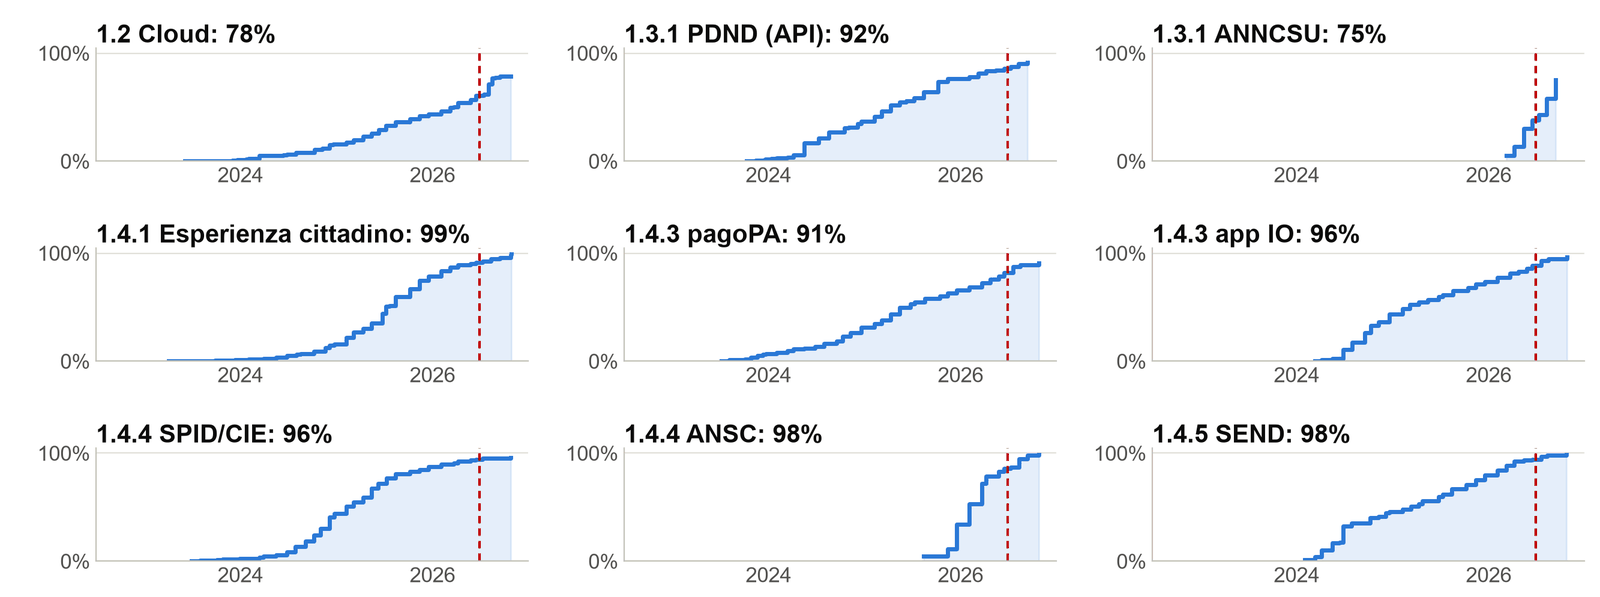
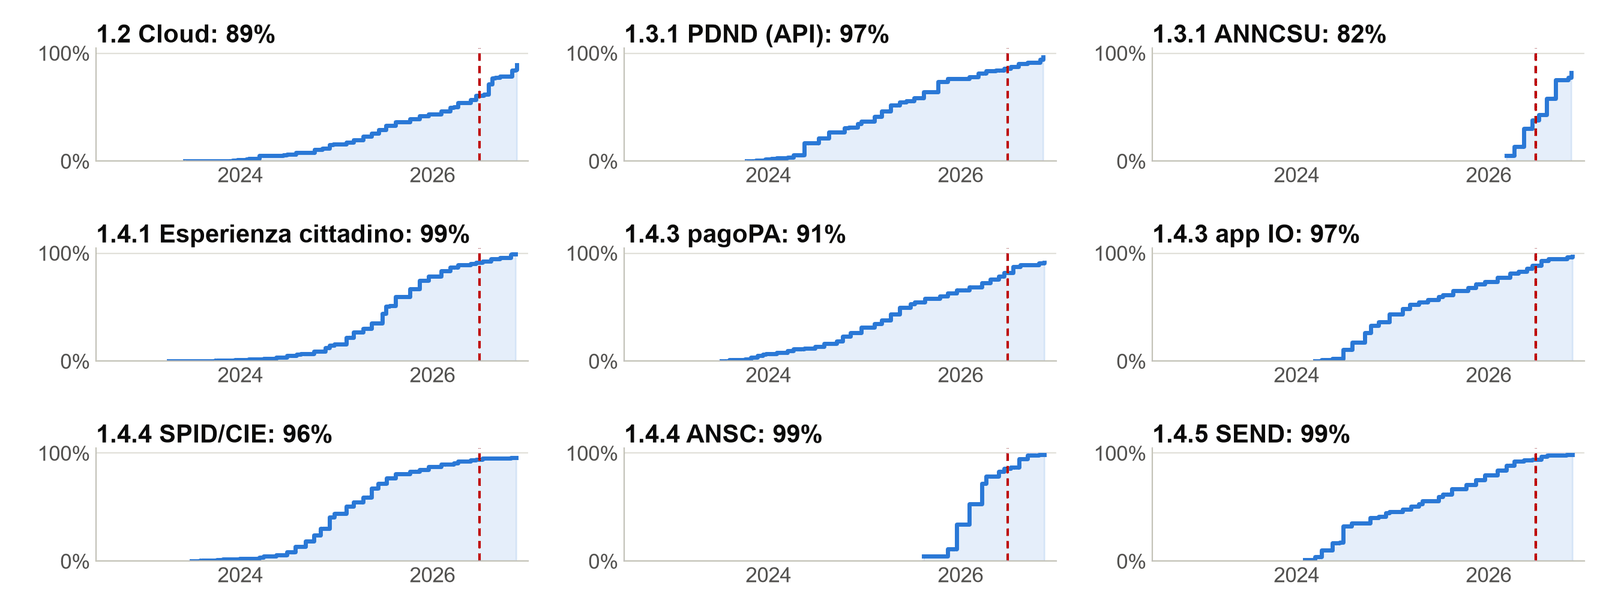
PA Digitale 2026: aggiorna dati e grafici al 17/11/2026 (IT/EN)

diff --git a/progetti/PADigitale2026/index-en.html b/progetti/PADigitale2026/index-en.html
@@ -52,7 +52,7 @@
 			<!-- INTESTAZIONE ARTICOLO -->
 			<div class="content-box post-head">
 				<h2>The PA Digitale 2026 measures: implementation, results, sustainability and impact</h2>
-				<p class="byline">Antonio Candiello · 31 October 2026</p>
+				<p class="byline">Antonio Candiello · 31 October 2026, updated 18 November 2026</p>
 				<ul class="keywords" aria-label="Keywords">
 					<li>PA digitale 2026</li><li>NRRP</li><li>municipalities</li><li>cloud</li><li>national platforms</li><li>ICT census</li><li>open data</li>
 				</ul>
@@ -64,7 +64,7 @@
 					<li><b>Sustainability</b>: <i>will public bodies be able to keep it running?</i></li>
 					<li><b>Impact</b>: <i>what will change for territories and citizens?</i></li>
 				</ul>
-				<p>Data on applications are updated to 29 October 2026.</p>
+				<p>Data on applications are updated to 17 November 2026.</p>
 				<nav class="toc" aria-label="Contents">
 					<h4>Contents</h4>
 					<ol>
@@ -152,10 +152,10 @@
 				<h2>2. Implementation</h2>
 				<p class="callout">Have the <b>resources</b> been committed and the <b>work</b> carried out?</p>
 				<h3>The overall picture</h3>
-				<p>Resources have been assigned and largely already paid out: <b>90%</b> of the amount. The grant is a lump sum paid after the result has been checked, so the amount paid out measures completed work, not just spending.</p>
+				<p>Resources have been assigned and largely already paid out: <b>94%</b> of the amount. The grant is a lump sum paid after the result has been checked, so the amount paid out measures completed work, not just spending.</p>
 				<ul class="stats">
 					<li><span class="big">74,639</span>projects funded, net of 18,855 withdrawals</li>
-					<li><span class="big">€2.59 bn</span>granted to public bodies, of which €2.32 bn paid out</li>
+					<li><span class="big">€2.59 bn</span>granted to public bodies, of which €2.44 bn paid out</li>
 					<li><span class="big">16,847</span>beneficiary bodies, of which 7,891 municipalities</li>
 					<li><span class="big">99.9%</span>of Italian municipalities have at least one active project</li>
 				</ul>
@@ -182,7 +182,7 @@
 					<img src="img/stato-en.png" alt="Share of projects paid out, assigned and withdrawn, by measure" loading="lazy" />
 				</figure>
 				<h3>The pace of payments</h3>
-				<p>The curves differ: ANSC and ANNCSU only start between late 2025 and 2026, while Cloud is at 78% of the amount.</p>
+				<p>The curves differ: ANSC and ANNCSU only start between late 2025 and 2026, while Cloud is at 89% of the amount.</p>
 				<figure>
 					<img src="img/ritmo-en.png" alt="Cumulative share of the amount paid out over time for each measure" loading="lazy" />
 					<figcaption>Cumulative percentage of the amount paid out over the net amount funded; dashed line: end of the NRRP.</figcaption>
@@ -208,46 +208,46 @@
 				<h2>3. Results</h2>
 				<p class="callout">Which <b>services</b>, <b>opportunities</b> and <b>benefits</b> have actually been delivered?</p>
 				<h3>What has been delivered</h3>
-				<p>Standardised digital services in <b>70,230 completed projects</b>, that is, projects whose grant was paid after the result was checked.</p>
+				<p>Standardised digital services in <b>71,460 completed projects</b>, that is, projects whose grant was paid after the result was checked.</p>
 				<div class="table-wrap"><table class="data">
 					<tr><th>Measure</th><th>Funded result</th><th>Completed projects</th><th>Paid out</th></tr>
-					<tr><td>1.2 Cloud</td><td>Services migrated to the cloud</td><td class="num">11,811</td><td class="num">€757.1 M</td></tr>
-					<tr><td>1.3.1 PDND</td><td>APIs published on PDND</td><td class="num">6,246</td><td class="num">€183.7 M</td></tr>
-					<tr><td>1.3.1 ANNCSU</td><td>Geo-referenced house numbers submitted</td><td class="num">4,199</td><td class="num">€30.2 M</td></tr>
-					<tr><td>1.4.1 Citizen experience</td><td>Websites and digital services of municipalities and schools</td><td class="num">13,687</td><td class="num">€787.8 M</td></tr>
-					<tr><td>1.4.3 pagoPA</td><td>157,590 payment collection services activated</td><td class="num">6,356</td><td class="num">€161.4 M</td></tr>
-					<tr><td>1.4.3 IO app</td><td>172,785 services activated on IO</td><td class="num">6,674</td><td class="num">€66.0 M</td></tr>
-					<tr><td>1.4.4 SPID/CIE</td><td>Access to online services with SPID and CIE</td><td class="num">6,911</td><td class="num">€96.8 M</td></tr>
-					<tr><td>1.4.4 ANSC</td><td>Digital civil registry in municipalities</td><td class="num">7,491</td><td class="num">€46.9 M</td></tr>
-					<tr><td>1.4.5 SEND</td><td>Digital notifications activated</td><td class="num">6,855</td><td class="num">€193.5 M</td></tr>
+					<tr><td>1.2 Cloud</td><td>Services migrated to the cloud</td><td class="num">12,548</td><td class="num">€859.8 M</td></tr>
+					<tr><td>1.3.1 PDND</td><td>APIs published on PDND</td><td class="num">6,272</td><td class="num">€193.8 M</td></tr>
+					<tr><td>1.3.1 ANNCSU</td><td>Geo-referenced house numbers submitted</td><td class="num">4,563</td><td class="num">€32.9 M</td></tr>
+					<tr><td>1.4.1 Citizen experience</td><td>Websites and digital services of municipalities and schools</td><td class="num">13,702</td><td class="num">€789.9 M</td></tr>
+					<tr><td>1.4.3 pagoPA</td><td>158,033 payment collection services activated</td><td class="num">6,368</td><td class="num">€162.3 M</td></tr>
+					<tr><td>1.4.3 IO app</td><td>173,238 services activated on IO</td><td class="num">6,690</td><td class="num">€66.4 M</td></tr>
+					<tr><td>1.4.4 SPID/CIE</td><td>Access to online services with SPID and CIE</td><td class="num">6,927</td><td class="num">€97.0 M</td></tr>
+					<tr><td>1.4.4 ANSC</td><td>Digital civil registry in municipalities</td><td class="num">7,512</td><td class="num">€47.1 M</td></tr>
+					<tr><td>1.4.5 SEND</td><td>Digital notifications activated</td><td class="num">6,878</td><td class="num">€194.3 M</td></tr>
 				</table></div>
 				<h3>From funding to use</h3>
 				<p>National data on use, which also include bodies that were not funded; for 1.2, 1.4.1 and 1.4.4 they count instead the bodies with a completed project. Sources other than open data are given in the note.</p>
 				<ul class="stats">
-					<li><span class="tag">1.2 Cloud</span><span class="big">11,700</span>bodies with services migrated to the cloud: 6,862 municipalities (87%) and 4,662 schools (57%); over <b>105,000</b> services migrated</li>
-					<li><span class="tag">1.3.1 PDND</span><span class="big">15,270</span>e-services published by 6,516 bodies, 11,648 by municipalities, out of 9,723 members; <b>52,565</b> active connections and 813 M requests in 2026</li>
-					<li><span class="tag">1.3.1 ANNCSU</span><span class="big">76%</span>house numbers with coordinates (data at 15/09/2026); 5,061 municipalities update them through the archive's APIs on PDND: over <b>23 M</b> calls</li>
-					<li><span class="tag">1.4.1 Citizen experience</span><span class="big">13,333</span>websites using the Designers Italia template: 6,536 municipalities (83%) and 6,797 schools (82%); <b>25,515</b> municipal digital services</li>
+					<li><span class="tag">1.2 Cloud</span><span class="big">12,433</span>bodies with services migrated to the cloud: 7,397 municipalities (94%) and 4,834 schools (59%); over <b>107,000</b> services migrated</li>
+					<li><span class="tag">1.3.1 PDND</span><span class="big">15,285</span>e-services published by 6,519 bodies, 11,651 by municipalities, out of 9,794 members; <b>54,833</b> active connections and 889 M requests in 2026</li>
+					<li><span class="tag">1.3.1 ANNCSU</span><span class="big">76%</span>house numbers with coordinates (data at 15/09/2026); 5,063 municipalities update them through the archive's APIs on PDND: over <b>23 M</b> calls</li>
+					<li><span class="tag">1.4.1 Citizen experience</span><span class="big">13,347</span>websites using the Designers Italia template: 6,551 municipalities (83%) and 6,796 schools (83%); <b>25,570</b> municipal digital services</li>
 					<li><span class="tag">1.4.3 pagoPA</span><span class="big">448.7 M</span>transactions in 2025</li>
-					<li><span class="tag">1.4.3 IO app</span><span class="big">98%</span>municipalities present on IO, with 244,074 services; <b>396 M</b> messages sent in 2025 (all bodies)</li>
-					<li><span class="tag">1.4.4 SPID/CIE</span><span class="big">6,907</span>bodies with SPID and CIE integrated: 5,722 municipalities (72%) and 1,185 other bodies; <b>1.22 billion</b> SPID logins in 2025</li>
-					<li><span class="tag">1.4.4 ANSC</span><span class="big">98.3%</span>municipalities with digital civil registry; over <b>700,000</b> digital records created (April 2026)</li>
-					<li><span class="tag">1.4.5 SEND</span><span class="big">19.5 M</span>notifications in 2025, 7,140 sending bodies</li>
+					<li><span class="tag">1.4.3 IO app</span><span class="big">98%</span>municipalities present on IO, with 244,112 services; <b>396 M</b> messages sent in 2025 (all bodies)</li>
+					<li><span class="tag">1.4.4 SPID/CIE</span><span class="big">6,922</span>bodies with SPID and CIE integrated: 5,736 municipalities (73%) and 1,186 other bodies; <b>1.22 billion</b> SPID logins in 2025</li>
+					<li><span class="tag">1.4.4 ANSC</span><span class="big">98.6%</span>municipalities with digital civil registry; over <b>700,000</b> digital records created (April 2026)</li>
+					<li><span class="tag">1.4.5 SEND</span><span class="big">19.5 M</span>notifications in 2025, 7,145 sending bodies</li>
 				</ul>
-				<p>For 1.2, 1.4.1 and 1.4.4 the figure does not measure use: it counts the bodies whose project was completed, that is, checked at certification. For 1.4.1 the website was checked against the Designers Italia template criteria; the digital services («active citizen» package) are derived from the amounts paid out using the price list in the calls' Annex 2: 6,303 municipalities activated at least one, most of them four. For 1.2 the migrated services are estimated the same way: 32,985 for schools and 72,236 for 6,669 municipalities; for the other 194 municipalities (2024–2025 calls) and for health authorities and other bodies the amount does not allow an estimate. For ANNCSU the calls are the PDND tokens issued for the Revenue Agency's «Aggiornamento coordinate» and «Aggiornamento accessi» e-services. For IO the messages are those of all bodies, not only municipalities. For ANSC there are no open data on records: the figure is reported by Agenda Digitale (9/4/2026). For PDND the data (Numeri PDND, 30/10/2026) cover all members: 6,516 bodies provide e-services and 8,545 use them; access requests are the tokens issued, January to October 2026. For 1.4.4 the call funds SPID and CIE together (€14,000 per municipality), so the projects do not distinguish the two credentials; use can be measured only for SPID, through the annual logins published by AgID (public and private services), while there is no overall public figure on CIE logins. Percentages of 7,896 municipalities (ISTAT) and 8,171 state schools (Indice PA, October 2026). The latest ISTAT figure on cloud use by local authorities is 54%, for 2022.</p>
+				<p>For 1.2, 1.4.1 and 1.4.4 the figure does not measure use: it counts the bodies whose project was completed, that is, checked at certification. For 1.4.1 the website was checked against the Designers Italia template criteria; the digital services («active citizen» package) are derived from the amounts paid out using the price list in the calls' Annex 2: 6,317 municipalities activated at least one, most of them four. For 1.2 the migrated services are estimated the same way: 34,428 for schools and 73,184 for 6,563 municipalities; for the other 834 municipalities (mostly 2024–2025 calls) and for health authorities and other bodies the amount does not allow an estimate. For ANNCSU the calls are the PDND tokens issued for the Revenue Agency's «Aggiornamento coordinate» and «Aggiornamento accessi» e-services. For IO the messages are those of all bodies, not only municipalities. For ANSC there are no open data on records: the figure is reported by Agenda Digitale (9/4/2026). For PDND the data (Numeri PDND, 17/11/2026) cover all members: 6,519 bodies provide e-services and 8,583 use them; access requests are the tokens issued, January to 17 November 2026. For 1.4.4 the call funds SPID and CIE together (€14,000 per municipality), so the projects do not distinguish the two credentials; use can be measured only for SPID, through the annual logins published by AgID (public and private services), while there is no overall public figure on CIE logins. Percentages of 7,896 municipalities (ISTAT) and 8,171 state schools (Indice PA, October 2026). The latest ISTAT figure on cloud use by local authorities is 54%, for 2022.</p>
 				<h3>Cloud: the starting point</h3>
-				<p>ISTAT 2022: <b>54%</b> of local authorities. With the NRRP, <b>87% of municipalities</b> have completed their cloud migration. The latest official figure on use is still the ISTAT 2022 one, before the effects of the NRRP projects; the 2026 ICT census will give the first post-NRRP picture.</p>
+				<p>ISTAT 2022: <b>54%</b> of local authorities. With the NRRP, <b>94% of municipalities</b> have completed their cloud migration. The latest official figure on use is still the ISTAT 2022 one, before the effects of the NRRP projects; the 2026 ICT census will give the first post-NRRP picture.</p>
 				<figure>
-					<img src="img/cloud-en.png" alt="Share of local authorities using cloud services from 2012 to 2022 (ISTAT), share of municipalities with NRRP 1.2 migration completed in October 2026, and gaps by macro area in 2022 (ISTAT) and October 2026 (municipalities with a completed 1.2 project)" loading="lazy" />
-					<figcaption>Sources: ISTAT, Local public administration and ICT – Year 2022 (23/02/2024); for October 2026, PA digitale 2026 open data (municipalities with a completed 1.2 project out of 7,896 ISTAT municipalities). The two measures are not comparable.</figcaption>
+					<img src="img/cloud-en.png" alt="Share of local authorities using cloud services from 2012 to 2022 (ISTAT), share of municipalities with NRRP 1.2 migration completed in November 2026, and gaps by macro area in 2022 (ISTAT) and November 2026 (municipalities with a completed 1.2 project)" loading="lazy" />
+					<figcaption>Sources: ISTAT, Local public administration and ICT – Year 2022 (23/02/2024); for November 2026, PA digitale 2026 open data (municipalities with a completed 1.2 project out of 7,896 ISTAT municipalities). The two measures are not comparable.</figcaption>
 				</figure>
 				<ul class="stats">
 					<li><span class="tag">Politecnico di Milano, AssoSoftware, 2023</span><span class="big">68%</span>municipal bodies with all back-office software in the cloud (a different measure from ISTAT)</li>
-					<li><span class="tag">PA digitale 2026, measure 1.2, October 2026</span><span class="big">87%</span>of municipalities and 57% of schools with cloud migration completed</li>
+					<li><span class="tag">PA digitale 2026, measure 1.2, November 2026</span><span class="big">94%</span>of municipalities and 59% of schools with cloud migration completed</li>
 				</ul>
 				<p>The three figures measure different things and cannot be compared. ISTAT counts local authorities using cloud services. The Politecnico counts municipalities with all back-office software in the cloud, but the press release does not state the base. The PA digitale 2026 figure counts municipalities and schools with a completed 1.2 project, that is, with at least one service migrated and checked at certification: it measures take-up of the NRRP, not use.</p>
 				<h3>PDND: members and data exchanges</h3>
-				<p><b>9,723 bodies</b> have joined, with about 84 million data exchange sessions per month.</p>
+				<p><b>9,794 bodies</b> have joined, with about 78 million data exchange sessions per month.</p>
 				<figure>
 					<img src="img/pdnd-en.png" alt="Bodies joined to PDND over time and data exchange sessions per month" loading="lazy" />
 					<figcaption>Source: Numeri PDND, CC0 open data. Includes bodies not funded by the measure.</figcaption>
@@ -268,7 +268,7 @@
 				<p><b>396.4 million</b> messages in 2025, with 98% of municipalities present on the app.</p>
 				<figure>
 					<img src="img/appio-en.png" alt="Messages sent by IO services per month and total per year" loading="lazy" />
-					<figcaption>* 2026 up to October. Source: PagoPA S.p.A., CC0 open data.</figcaption>
+					<figcaption>* 2026 up to 17 November 2026. Source: PagoPA S.p.A., CC0 open data.</figcaption>
 				</figure>
 				<h3>SEND: notifications</h3>
 				<p>Notifications are growing, but in 2026 <b>72%</b> are still sent on paper.</p>
@@ -283,7 +283,7 @@
 					<figcaption>Sources: AgID, SPID page (annual logins to all services, public and private); ANPR open data (accessi_export) for the two charts on ANPR logins.</figcaption>
 				</figure>
 				<h3>ANSC: the digital civil registry</h3>
-				<p><b>98.3%</b> of municipalities have joined, mostly between 2025 and early 2026.</p>
+				<p><b>98.6%</b> of municipalities have joined, mostly between 2025 and early 2026.</p>
 				<figure>
 					<img src="img/ansc-en.png" alt="Cumulative number of municipalities joined to ANSC since 2024" loading="lazy" />
 					<figcaption>Source: ANPR open data (adesioni_ansc_export).</figcaption>
@@ -346,7 +346,7 @@
 				<p>A positive sign, but not attributable to the funded projects alone: the data are national. SPID still exceeds a billion logins a year, but in the first nine months of 2026 it fell by 10% on the same period of 2025, while CIE logins are growing: 265.8 million «Entra con CIE» logins by the end of September 2026.</p>
 				<figure>
 					<img src="img/crescita-uso-en.png" alt="Yearly totals 2024-2026 of pagoPA transactions, IO messages, SEND notifications, PDND requests and SPID logins; for 2026 also CIE logins" loading="lazy" />
-					<figcaption>* 2026 partial year: up to October for pagoPA, IO, SEND and PDND; January–September for SPID; CIE: «Entra con CIE» logins by the end of September (no public total exists for 2024 and 2025). Sources: PagoPA S.p.A., CC0 open data and Numeri PDND (access requests); SPID: AgID (2024–2025); 2026 SPID and CIE: <a href="https://www.osservatori.net/comunicato/digital-identity/eudi-wallet-italia-europa/">Digital Identity &amp; Wallet Observatory, Politecnico di Milano</a> (5/11/2026).</figcaption>
+					<figcaption>* 2026 partial year: up to 17 November 2026 for pagoPA, IO, SEND and PDND; January–September for SPID; CIE: «Entra con CIE» logins by the end of September (no public total exists for 2024 and 2025). Sources: PagoPA S.p.A., CC0 open data and Numeri PDND (access requests); SPID: AgID (2024–2025); 2026 SPID and CIE: <a href="https://www.osservatori.net/comunicato/digital-identity/eudi-wallet-italia-europa/">Digital Identity &amp; Wallet Observatory, Politecnico di Milano</a> (5/11/2026).</figcaption>
 				</figure>
 				<h3>Territories: widespread take-up</h3>
 				<p>The <b>South</b> often takes part more than the North: a good sign, but taking part does not mean use. In 2022 ISTAT reported cloud use by 49.4% of local authorities in the South and Islands and 74.0% in the North-East.</p>
@@ -372,9 +372,9 @@
 				<a id="riferimenti"></a>
 				<h2>6. References and notes</h2>
 				<p>All data come from open, publicly available sources (mostly in Italian). Data extraction, processing and presentation were supported by artificial intelligence tools. Usage indicators are national or aggregate and also include bodies that were not funded.</p>
-				<h3>Open data (downloaded on 30–31 October 2026)</h3>
+				<h3>Open data (downloaded on 18 November 2026)</h3>
 				<ul class="refs">
-					<li><a href="https://github.com/teamdigitale/padigitale2026-opendata">PA digitale 2026, calls and funded applications</a> (at 29/10/2026): implementation, results, small municipalities, territories.</li>
+					<li><a href="https://github.com/teamdigitale/padigitale2026-opendata">PA digitale 2026, calls and funded applications</a> (at 17/11/2026): implementation, results, small municipalities, territories.</li>
 					<li><a href="https://github.com/italia/pdnd-opendata">Numeri PDND</a> (PagoPA S.p.A.): members and exchange sessions.</li>
 					<li><a href="https://github.com/pagopa/pdnd-dl-open-data">PagoPA S.p.A. open data</a>: pagoPA, IO app, SEND.</li>
 					<li><a href="https://github.com/italia/anpr-opendata">ANPR open data</a> (Ministry of the Interior): ANSC membership, logins by credential.</li>

diff --git a/progetti/PADigitale2026/index.html b/progetti/PADigitale2026/index.html
@@ -52,7 +52,7 @@
 			<!-- INTESTAZIONE ARTICOLO -->
 			<div class="content-box post-head">
 				<h2>Le misure di PA Digitale 2026: attuazione, risultati, sostenibilità e impatto</h2>
-				<p class="byline">Antonio Candiello · 31 ottobre 2026</p>
+				<p class="byline">Antonio Candiello · 31 ottobre 2026, aggiornato il 18 novembre 2026</p>
 				<ul class="keywords" aria-label="Parole chiave">
 					<li>PA digitale 2026</li><li>PNRR</li><li>Comuni</li><li>cloud</li><li>piattaforme nazionali</li><li>censimento ICT</li><li>open data</li>
 				</ul>
@@ -64,7 +64,7 @@
 					<li><b>Sostenibilità</b>: <i>gli enti riusciranno a mantenerlo?</i></li>
 					<li><b>Impatto</b>: <i>che cosa cambierà per territori e cittadini?</i></li>
 				</ul>
-				<p>I dati sulle candidature sono aggiornati al 29 ottobre 2026.</p>
+				<p>I dati sulle candidature sono aggiornati al 17 novembre 2026.</p>
 				<nav class="toc" aria-label="Indice">
 					<h4>Indice</h4>
 					<ol>
@@ -152,10 +152,10 @@
 				<h2>2. Attuazione</h2>
 				<p class="callout">Le <b>risorse</b> sono state impegnate e gli <b>interventi</b> realizzati?</p>
 				<h3>Il quadro d'insieme</h3>
-				<p>Risorse assegnate e in gran parte già erogate: il <b>90%</b> dell'importo. Il contributo è forfettario e arriva dopo la verifica del risultato, quindi l'erogato misura gli interventi conclusi, non solo la spesa.</p>
+				<p>Risorse assegnate e in gran parte già erogate: il <b>94%</b> dell'importo. Il contributo è forfettario e arriva dopo la verifica del risultato, quindi l'erogato misura gli interventi conclusi, non solo la spesa.</p>
 				<ul class="stats">
 					<li><span class="big">74.639</span>progetti finanziati, al netto di 18.855 rinunce</li>
-					<li><span class="big">2,59 mld €</span>finanziati agli enti, di cui 2,32 mld € erogati</li>
+					<li><span class="big">2,59 mld €</span>finanziati agli enti, di cui 2,44 mld € erogati</li>
 					<li><span class="big">16.847</span>enti beneficiari, di cui 7.891 Comuni</li>
 					<li><span class="big">99,9%</span>dei Comuni italiani ha almeno un progetto attivo</li>
 				</ul>
@@ -182,7 +182,7 @@
 					<img src="img/stato.png" alt="Quota di progetti erogati, assegnati e rinunciati per misura" loading="lazy" />
 				</figure>
 				<h3>Il ritmo delle erogazioni</h3>
-				<p>Le curve sono diverse: ANSC e ANNCSU partono solo tra fine 2025 e 2026, mentre il Cloud è al 78% dell'importo.</p>
+				<p>Le curve sono diverse: ANSC e ANNCSU partono solo tra fine 2025 e 2026, mentre il Cloud è all'89% dell'importo.</p>
 				<figure>
 					<img src="img/ritmo.png" alt="Quota cumulata dell'importo erogato nel tempo per ciascuna misura" loading="lazy" />
 					<figcaption>Percentuale cumulata dell'importo erogato sul finanziato netto; tratteggio: fine PNRR.</figcaption>
@@ -208,46 +208,46 @@
 				<h2>3. Risultati</h2>
 				<p class="callout">Quali <b>servizi</b>, <b>opportunità</b> e <b>benefici</b> sono stati effettivamente prodotti?</p>
 				<h3>Cosa è stato prodotto</h3>
-				<p>Servizi digitali standardizzati in <b>70.230 progetti conclusi</b>, cioè con il contributo erogato dopo la verifica del risultato.</p>
+				<p>Servizi digitali standardizzati in <b>71.460 progetti conclusi</b>, cioè con il contributo erogato dopo la verifica del risultato.</p>
 				<div class="table-wrap"><table class="data">
 					<tr><th>Misura</th><th>Risultato finanziato</th><th>Progetti conclusi</th><th>Erogato</th></tr>
-					<tr><td>1.2 Cloud</td><td>Servizi migrati in cloud</td><td class="num">11.811</td><td class="num">757,1 mln €</td></tr>
-					<tr><td>1.3.1 PDND</td><td>API pubblicate sulla PDND</td><td class="num">6.246</td><td class="num">183,7 mln €</td></tr>
-					<tr><td>1.3.1 ANNCSU</td><td>Civici georeferenziati conferiti</td><td class="num">4.199</td><td class="num">30,2 mln €</td></tr>
-					<tr><td>1.4.1 Esperienza cittadino</td><td>Siti e servizi digitali di Comuni e Scuole</td><td class="num">13.687</td><td class="num">787,8 mln €</td></tr>
-					<tr><td>1.4.3 pagoPA</td><td>157.590 servizi di incasso attivati</td><td class="num">6.356</td><td class="num">161,4 mln €</td></tr>
-					<tr><td>1.4.3 App IO</td><td>172.785 servizi attivati su IO</td><td class="num">6.674</td><td class="num">66,0 mln €</td></tr>
-					<tr><td>1.4.4 SPID/CIE</td><td>Accesso con SPID e CIE ai servizi online</td><td class="num">6.911</td><td class="num">96,8 mln €</td></tr>
-					<tr><td>1.4.4 ANSC</td><td>Stato civile digitale nei Comuni</td><td class="num">7.491</td><td class="num">46,9 mln €</td></tr>
-					<tr><td>1.4.5 SEND</td><td>Notifiche digitali attivate</td><td class="num">6.855</td><td class="num">193,5 mln €</td></tr>
+					<tr><td>1.2 Cloud</td><td>Servizi migrati in cloud</td><td class="num">12.548</td><td class="num">859,8 mln €</td></tr>
+					<tr><td>1.3.1 PDND</td><td>API pubblicate sulla PDND</td><td class="num">6.272</td><td class="num">193,8 mln €</td></tr>
+					<tr><td>1.3.1 ANNCSU</td><td>Civici georeferenziati conferiti</td><td class="num">4.563</td><td class="num">32,9 mln €</td></tr>
+					<tr><td>1.4.1 Esperienza cittadino</td><td>Siti e servizi digitali di Comuni e Scuole</td><td class="num">13.702</td><td class="num">789,9 mln €</td></tr>
+					<tr><td>1.4.3 pagoPA</td><td>158.033 servizi di incasso attivati</td><td class="num">6.368</td><td class="num">162,3 mln €</td></tr>
+					<tr><td>1.4.3 App IO</td><td>173.238 servizi attivati su IO</td><td class="num">6.690</td><td class="num">66,4 mln €</td></tr>
+					<tr><td>1.4.4 SPID/CIE</td><td>Accesso con SPID e CIE ai servizi online</td><td class="num">6.927</td><td class="num">97,0 mln €</td></tr>
+					<tr><td>1.4.4 ANSC</td><td>Stato civile digitale nei Comuni</td><td class="num">7.512</td><td class="num">47,1 mln €</td></tr>
+					<tr><td>1.4.5 SEND</td><td>Notifiche digitali attivate</td><td class="num">6.878</td><td class="num">194,3 mln €</td></tr>
 				</table></div>
 				<h3>Dai finanziamenti all'uso</h3>
 				<p>Dati nazionali sull'uso, che comprendono anche gli enti non finanziati; per la 1.2, la 1.4.1 e la 1.4.4 si contano invece gli enti con progetto concluso. Le fonti diverse dai dati aperti sono indicate nella nota.</p>
 				<ul class="stats">
-					<li><span class="tag">1.2 Cloud</span><span class="big">11.700</span>enti con servizi migrati in cloud: 6.862 Comuni (87%) e 4.662 Scuole (57%); oltre <b>105.000</b> servizi migrati</li>
-					<li><span class="tag">1.3.1 PDND</span><span class="big">15.270</span>e-service pubblicati da 6.516 enti, 11.648 dai Comuni, su 9.723 aderenti; <b>52.565</b> connessioni attive e 813 mln di richieste nel 2026</li>
-					<li><span class="tag">1.3.1 ANNCSU</span><span class="big">76%</span>numeri civici con coordinate (dato al 15/09/2026); 5.061 Comuni li aggiornano con le API dell'Archivio via PDND: oltre <b>23 mln</b> di chiamate</li>
-					<li><span class="tag">1.4.1 Esperienza cittadino</span><span class="big">13.333</span>siti con modello Designers Italia: 6.536 Comuni (83%) e 6.797 Scuole (82%); <b>25.515</b> servizi digitali dei Comuni</li>
+					<li><span class="tag">1.2 Cloud</span><span class="big">12.433</span>enti con servizi migrati in cloud: 7.397 Comuni (94%) e 4.834 Scuole (59%); oltre <b>107.000</b> servizi migrati</li>
+					<li><span class="tag">1.3.1 PDND</span><span class="big">15.285</span>e-service pubblicati da 6.519 enti, 11.651 dai Comuni, su 9.794 aderenti; <b>54.833</b> connessioni attive e 889 mln di richieste nel 2026</li>
+					<li><span class="tag">1.3.1 ANNCSU</span><span class="big">76%</span>numeri civici con coordinate (dato al 15/09/2026); 5.063 Comuni li aggiornano con le API dell'Archivio via PDND: oltre <b>23 mln</b> di chiamate</li>
+					<li><span class="tag">1.4.1 Esperienza cittadino</span><span class="big">13.347</span>siti con modello Designers Italia: 6.551 Comuni (83%) e 6.796 Scuole (83%); <b>25.570</b> servizi digitali dei Comuni</li>
 					<li><span class="tag">1.4.3 pagoPA</span><span class="big">448,7 mln</span>transazioni nel 2025</li>
-					<li><span class="tag">1.4.3 App IO</span><span class="big">98%</span>Comuni presenti su IO, con 244.074 servizi; <b>396 mln</b> di messaggi inviati nel 2025 (tutti gli enti)</li>
-					<li><span class="tag">1.4.4 SPID/CIE</span><span class="big">6.907</span>enti con SPID e CIE integrati: 5.722 Comuni (72%) e 1.185 altri enti; <b>1,22 miliardi</b> di accessi con SPID nel 2025</li>
-					<li><span class="tag">1.4.4 ANSC</span><span class="big">98,3%</span>Comuni con Stato Civile digitale; oltre <b>700.000</b> atti digitali formati (aprile 2026)</li>
-					<li><span class="tag">1.4.5 SEND</span><span class="big">19,5 mln</span>notifiche nel 2025, 7.140 enti mittenti</li>
+					<li><span class="tag">1.4.3 App IO</span><span class="big">98%</span>Comuni presenti su IO, con 244.112 servizi; <b>396 mln</b> di messaggi inviati nel 2025 (tutti gli enti)</li>
+					<li><span class="tag">1.4.4 SPID/CIE</span><span class="big">6.922</span>enti con SPID e CIE integrati: 5.736 Comuni (73%) e 1.186 altri enti; <b>1,22 miliardi</b> di accessi con SPID nel 2025</li>
+					<li><span class="tag">1.4.4 ANSC</span><span class="big">98,6%</span>Comuni con Stato Civile digitale; oltre <b>700.000</b> atti digitali formati (aprile 2026)</li>
+					<li><span class="tag">1.4.5 SEND</span><span class="big">19,5 mln</span>notifiche nel 2025, 7.145 enti mittenti</li>
 				</ul>
-				<p>Per la 1.2, la 1.4.1 e la 1.4.4 il dato non misura l'uso: conta gli enti con il progetto concluso, cioè verificato al momento dell'asseverazione. Per la 1.4.1 il sito è stato verificato sui criteri del modello Designers Italia; i servizi digitali (pacchetto «cittadino attivo») sono ricavati dagli importi erogati con il listino degli Allegati 2: 6.303 Comuni ne hanno attivato almeno uno, la gran parte quattro. Per la 1.2 i servizi migrati sono stimati allo stesso modo: 32.985 per le Scuole e 72.236 per 6.669 Comuni; per gli altri 194 Comuni (avvisi 2024–2025) e per ASL e altri enti l'importo non consente la stima. Per ANNCSU le chiamate sono i token PDND emessi per gli e-service «Aggiornamento coordinate» e «Aggiornamento accessi» dell'Agenzia delle Entrate. Per IO i messaggi sono quelli di tutti gli enti, non solo dei Comuni. Per ANSC non ci sono dati aperti sugli atti: il dato è riportato da Agenda Digitale (9/4/2026). Per la PDND i dati (Numeri PDND, 30/10/2026) riguardano tutti gli aderenti: 6.516 enti erogano e-service, 8.545 ne fruiscono; le richieste di accesso sono i token emessi, da gennaio a ottobre 2026. Per la 1.4.4 l'avviso finanzia insieme SPID e CIE (14.000 € a Comune), quindi i progetti non distinguono le due credenziali; l'uso è misurabile solo per SPID, con gli accessi annui pubblicati da AgID (servizi pubblici e privati), mentre per la CIE non esiste un dato pubblico complessivo sugli accessi. Percentuali su 7.896 Comuni (ISTAT) e 8.171 istituti scolastici statali (Indice PA, ottobre 2026). L'ultimo dato ISTAT sull'uso del cloud nelle PA locali è il 54% del 2022.</p>
+				<p>Per la 1.2, la 1.4.1 e la 1.4.4 il dato non misura l'uso: conta gli enti con il progetto concluso, cioè verificato al momento dell'asseverazione. Per la 1.4.1 il sito è stato verificato sui criteri del modello Designers Italia; i servizi digitali (pacchetto «cittadino attivo») sono ricavati dagli importi erogati con il listino degli Allegati 2: 6.317 Comuni ne hanno attivato almeno uno, la gran parte quattro. Per la 1.2 i servizi migrati sono stimati allo stesso modo: 34.428 per le Scuole e 73.184 per 6.563 Comuni; per gli altri 834 Comuni (soprattutto avvisi 2024–2025) e per ASL e altri enti l'importo non consente la stima. Per ANNCSU le chiamate sono i token PDND emessi per gli e-service «Aggiornamento coordinate» e «Aggiornamento accessi» dell'Agenzia delle Entrate. Per IO i messaggi sono quelli di tutti gli enti, non solo dei Comuni. Per ANSC non ci sono dati aperti sugli atti: il dato è riportato da Agenda Digitale (9/4/2026). Per la PDND i dati (Numeri PDND, 17/11/2026) riguardano tutti gli aderenti: 6.519 enti erogano e-service, 8.583 ne fruiscono; le richieste di accesso sono i token emessi, da gennaio al 17 novembre 2026. Per la 1.4.4 l'avviso finanzia insieme SPID e CIE (14.000 € a Comune), quindi i progetti non distinguono le due credenziali; l'uso è misurabile solo per SPID, con gli accessi annui pubblicati da AgID (servizi pubblici e privati), mentre per la CIE non esiste un dato pubblico complessivo sugli accessi. Percentuali su 7.896 Comuni (ISTAT) e 8.171 istituti scolastici statali (Indice PA, ottobre 2026). L'ultimo dato ISTAT sull'uso del cloud nelle PA locali è il 54% del 2022.</p>
 				<h3>Cloud: il punto di partenza</h3>
-				<p>ISTAT 2022: <b>54%</b> delle PA locali. Con il PNRR l'<b>87% dei Comuni</b> ha concluso la migrazione in cloud. L'ultimo dato ufficiale sull'uso resta quello ISTAT del 2022, prima dell'effetto dei progetti PNRR; il Censimento ICT 2026 darà il primo quadro dopo il PNRR.</p>
+				<p>ISTAT 2022: <b>54%</b> delle PA locali. Con il PNRR il <b>94% dei Comuni</b> ha concluso la migrazione in cloud. L'ultimo dato ufficiale sull'uso resta quello ISTAT del 2022, prima dell'effetto dei progetti PNRR; il Censimento ICT 2026 darà il primo quadro dopo il PNRR.</p>
 				<figure>
-					<img src="img/cloud.png" alt="Quota di PA locali che usano il cloud dal 2012 al 2022 (ISTAT), quota di Comuni con migrazione PNRR 1.2 conclusa a ottobre 2026 e divari per macro area nel 2022 (ISTAT) e a ottobre 2026 (Comuni con progetto 1.2 concluso)" loading="lazy" />
-					<figcaption>Fonti: ISTAT, Pubblica amministrazione locale e ICT – Anno 2022 (23/02/2024); per ottobre 2026 open data PA digitale 2026 (Comuni con progetto 1.2 concluso sui 7.896 Comuni ISTAT). Le due misure non sono confrontabili.</figcaption>
+					<img src="img/cloud.png" alt="Quota di PA locali che usano il cloud dal 2012 al 2022 (ISTAT), quota di Comuni con migrazione PNRR 1.2 conclusa a novembre 2026 e divari per macro area nel 2022 (ISTAT) e a novembre 2026 (Comuni con progetto 1.2 concluso)" loading="lazy" />
+					<figcaption>Fonti: ISTAT, Pubblica amministrazione locale e ICT – Anno 2022 (23/02/2024); per novembre 2026 open data PA digitale 2026 (Comuni con progetto 1.2 concluso sui 7.896 Comuni ISTAT). Le due misure non sono confrontabili.</figcaption>
 				</figure>
 				<ul class="stats">
 					<li><span class="tag">Politecnico di Milano, AssoSoftware, 2023</span><span class="big">68%</span>enti comunali con tutti i gestionali in cloud (misura diversa da ISTAT)</li>
-					<li><span class="tag">PA digitale 2026, misura 1.2, ottobre 2026</span><span class="big">87%</span>dei Comuni e 57% delle Scuole con migrazione in cloud conclusa</li>
+					<li><span class="tag">PA digitale 2026, misura 1.2, novembre 2026</span><span class="big">94%</span>dei Comuni e 59% delle Scuole con migrazione in cloud conclusa</li>
 				</ul>
 				<p>I tre dati misurano cose diverse e non sono confrontabili. ISTAT conta le PA locali che usano servizi cloud. Il Politecnico conta i Comuni con tutti i gestionali in cloud, ma il comunicato non precisa su quale base. Il dato PA digitale 2026 conta Comuni e Scuole con un progetto 1.2 concluso, cioè con almeno un servizio migrato e verificato all'asseverazione: misura l'adesione al PNRR, non l'uso.</p>
 				<h3>PDND: adesioni e scambi</h3>
-				<p><b>9.723 enti</b> aderenti e circa 84 milioni di sessioni di scambio di dati al mese.</p>
+				<p><b>9.794 enti</b> aderenti e circa 78 milioni di sessioni di scambio di dati al mese.</p>
 				<figure>
 					<img src="img/pdnd.png" alt="Enti aderenti alla PDND nel tempo e sessioni di scambio dati al mese" loading="lazy" />
 					<figcaption>Fonte: Numeri PDND, open data CC0. Comprende enti non finanziati dalla misura.</figcaption>
@@ -268,7 +268,7 @@
 				<p><b>396,4 milioni</b> di messaggi nel 2025, con il 98% dei Comuni presenti sull'app.</p>
 				<figure>
 					<img src="img/appio.png" alt="Messaggi inviati dai servizi su IO al mese e totale per anno" loading="lazy" />
-					<figcaption>* 2026 fino a ottobre. Fonte: PagoPA S.p.A., open data CC0.</figcaption>
+					<figcaption>* 2026 fino al 17 novembre 2026. Fonte: PagoPA S.p.A., open data CC0.</figcaption>
 				</figure>
 				<h3>SEND: le notifiche</h3>
 				<p>Le notifiche crescono, ma nel 2026 il <b>72%</b> è ancora analogico.</p>
@@ -283,7 +283,7 @@
 					<figcaption>Fonti: AgID, pagina SPID (accessi annui a tutti i servizi, pubblici e privati); open data ANPR (accessi_export) per i due grafici sugli accessi ad ANPR.</figcaption>
 				</figure>
 				<h3>ANSC: lo Stato Civile digitale</h3>
-				<p>Il <b>98,3%</b> dei Comuni ha aderito, in gran parte tra il 2025 e l'inizio del 2026.</p>
+				<p>Il <b>98,6%</b> dei Comuni ha aderito, in gran parte tra il 2025 e l'inizio del 2026.</p>
 				<figure>
 					<img src="img/ansc.png" alt="Numero cumulato di Comuni aderenti ad ANSC dal 2024" loading="lazy" />
 					<figcaption>Fonte: open data ANPR (adesioni_ansc_export).</figcaption>
@@ -346,7 +346,7 @@
 				<p>Un segnale positivo, ma non attribuibile ai soli progetti finanziati: i dati sono nazionali. SPID resta oltre il miliardo di accessi l'anno, ma nei primi nove mesi del 2026 cala del 10% sullo stesso periodo del 2025, mentre crescono gli accessi con CIE: 265,8 milioni di accessi «Entra con CIE» a fine settembre 2026.</p>
 				<figure>
 					<img src="img/crescita-uso.png" alt="Totali annui 2024-2026 di transazioni pagoPA, messaggi IO, notifiche SEND, richieste PDND e accessi con SPID; per il 2026 anche gli accessi con CIE" loading="lazy" />
-					<figcaption>* 2026 anno parziale: fino a ottobre per pagoPA, IO, SEND e PDND; gennaio–settembre per SPID; CIE: accessi «Entra con CIE» a fine settembre (per il 2024 e il 2025 non c'è un totale pubblico). Fonti: PagoPA S.p.A., open data CC0 e Numeri PDND (richieste di accesso); SPID: AgID (2024–2025); 2026 SPID e CIE: <a href="https://www.osservatori.net/comunicato/digital-identity/eudi-wallet-italia-europa/">Osservatorio Digital Identity &amp; Wallet del Politecnico di Milano</a> (5/11/2026).</figcaption>
+					<figcaption>* 2026 anno parziale: fino al 17 novembre 2026 per pagoPA, IO, SEND e PDND; gennaio–settembre per SPID; CIE: accessi «Entra con CIE» a fine settembre (per il 2024 e il 2025 non c'è un totale pubblico). Fonti: PagoPA S.p.A., open data CC0 e Numeri PDND (richieste di accesso); SPID: AgID (2024–2025); 2026 SPID e CIE: <a href="https://www.osservatori.net/comunicato/digital-identity/eudi-wallet-italia-europa/">Osservatorio Digital Identity &amp; Wallet del Politecnico di Milano</a> (5/11/2026).</figcaption>
 				</figure>
 				<h3>I territori: adesione diffusa</h3>
 				<p>Il <b>Sud</b> aderisce spesso più del Nord: è un buon segnale, ma adesione non significa uso. Nel 2022 ISTAT indicava il cloud nel 49,4% delle PA locali del Mezzogiorno e nel 74,0% del Nord-est.</p>
@@ -372,9 +372,9 @@
 				<a id="riferimenti"></a>
 				<h2>6. Riferimenti e precisazioni</h2>
 				<p>Tutti i dati provengono da fonti aperte e disponibili. Le attività di estrazione, rielaborazione e presentazione dei dati sono state supportate da strumenti di intelligenza artificiale. Gli indicatori di fruizione sono nazionali o aggregati e comprendono anche gli enti non finanziati.</p>
-				<h3>Dati aperti (scaricati il 30–31 ottobre 2026)</h3>
+				<h3>Dati aperti (scaricati il 18 novembre 2026)</h3>
 				<ul class="refs">
-					<li><a href="https://github.com/teamdigitale/padigitale2026-opendata">PA digitale 2026, avvisi e candidature finanziate</a> (al 29/10/2026): attuazione, risultati, piccoli Comuni, territori.</li>
+					<li><a href="https://github.com/teamdigitale/padigitale2026-opendata">PA digitale 2026, avvisi e candidature finanziate</a> (al 17/11/2026): attuazione, risultati, piccoli Comuni, territori.</li>
 					<li><a href="https://github.com/italia/pdnd-opendata">Numeri PDND</a> (PagoPA S.p.A.): adesioni e sessioni di scambio.</li>
 					<li><a href="https://github.com/pagopa/pdnd-dl-open-data">Open data PagoPA S.p.A.</a>: pagoPA, App IO, SEND.</li>
 					<li><a href="https://github.com/italia/anpr-opendata">Open data ANPR</a> (Ministero dell'Interno): adesioni ad ANSC, accessi per credenziale.</li>
